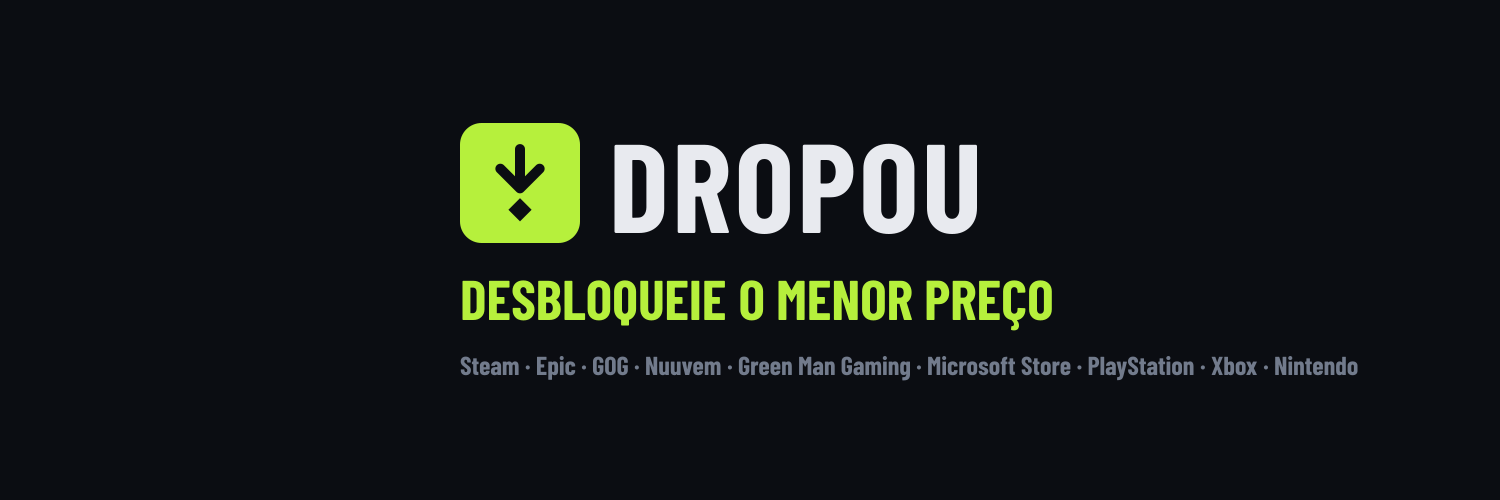
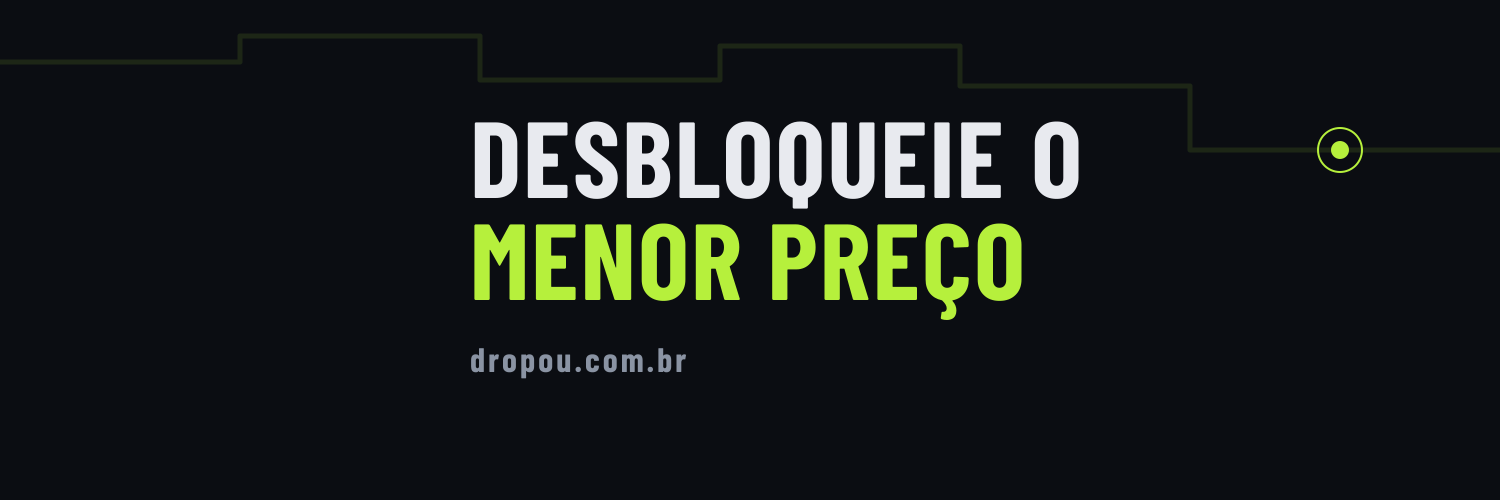
Capa do X/Twitter minimalista (slogan, domínio e linha de histórico de preço)

diff --git a/scripts/twitter-cover.tsx b/scripts/twitter-cover.tsx
@@ -1,0 +1,41 @@
+/**
+ * Capa do perfil no X/Twitter (1500×500), versão minimalista: `npx tsx scripts/twitter-cover.tsx`.
+ * Salva em media-kit/capa-twitter-1500x500.png. A foto de perfil cobre o canto inferior esquerdo, então o texto
+ * fica à direita dela; a linha de fundo é o "gráfico de histórico de preço" caindo até o menor preço.
+ */
+import { readFile, writeFile } from "node:fs/promises";
+import { ImageResponse } from "next/og";
+import { BRAND } from "../src/lib/brand";
+
+const C = { bg: "#0b0d12", text: "#e8eaef", text2: "#8a93a3", accent: "#b6f03c", line: "#1d2616" };
+const W = 1500;
+const H = 500;
+
+// degraus de preço que descem até o menor valor (ponto verde)
+const STEPS = "M0 62 H240 V36 H480 V80 H720 V46 H960 V86 H1190 V150 H1500";
+
+function Cover() {
+  return (
+    <div style={{ width: W, height: H, display: "flex", position: "relative", background: C.bg, fontFamily: "Barlow", color: C.text }}>
+      <svg width={W} height={H} viewBox={`0 0 ${W} ${H}`} style={{ position: "absolute", inset: 0 }}>
+        <path d={STEPS} fill="none" stroke={C.line} strokeWidth={5} strokeLinejoin="round" />
+        <circle cx={1340} cy={150} r={9} fill={C.accent} />
+        <circle cx={1340} cy={150} r={22} fill="none" stroke={C.accent} strokeWidth={2} />
+      </svg>
+
+      <div style={{ position: "absolute", left: 470, top: 0, bottom: 0, display: "flex", flexDirection: "column", justifyContent: "center", paddingBottom: 18 }}>
+        <div style={{ display: "flex", fontSize: 108, lineHeight: 0.94, textTransform: "uppercase", letterSpacing: 2 }}>Desbloqueie o</div>
+        <div style={{ display: "flex", fontSize: 108, lineHeight: 0.94, textTransform: "uppercase", letterSpacing: 2, color: C.accent }}>menor preço</div>
+        <div style={{ display: "flex", marginTop: 30, fontSize: 34, letterSpacing: 3, color: C.text2 }}>{BRAND.domain}</div>
+      </div>
+    </div>
+  );
+}
+
+async function main() {
+  const barlow = await readFile("src/assets/BarlowCondensed-Bold.ttf");
+  const res = new ImageResponse(<Cover />, { width: W, height: H, fonts: [{ name: "Barlow", data: barlow, weight: 700, style: "normal" }] });
+  await writeFile("media-kit/capa-twitter-1500x500.png", Buffer.from(await res.arrayBuffer()));
+  console.log("✓ media-kit/capa-twitter-1500x500.png");
+}
+main();
